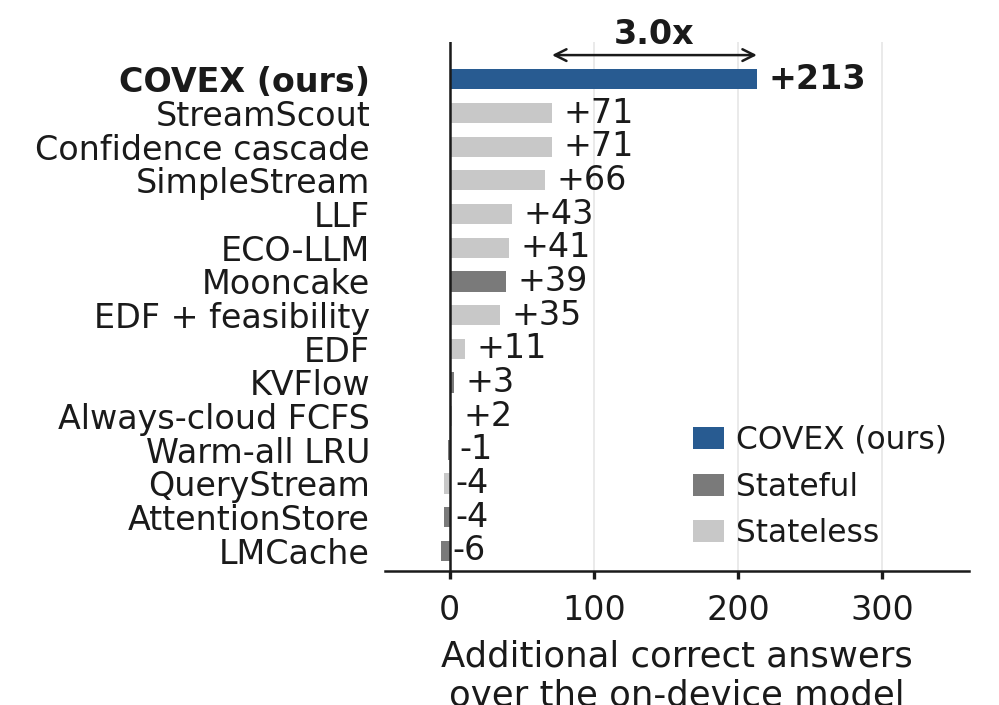
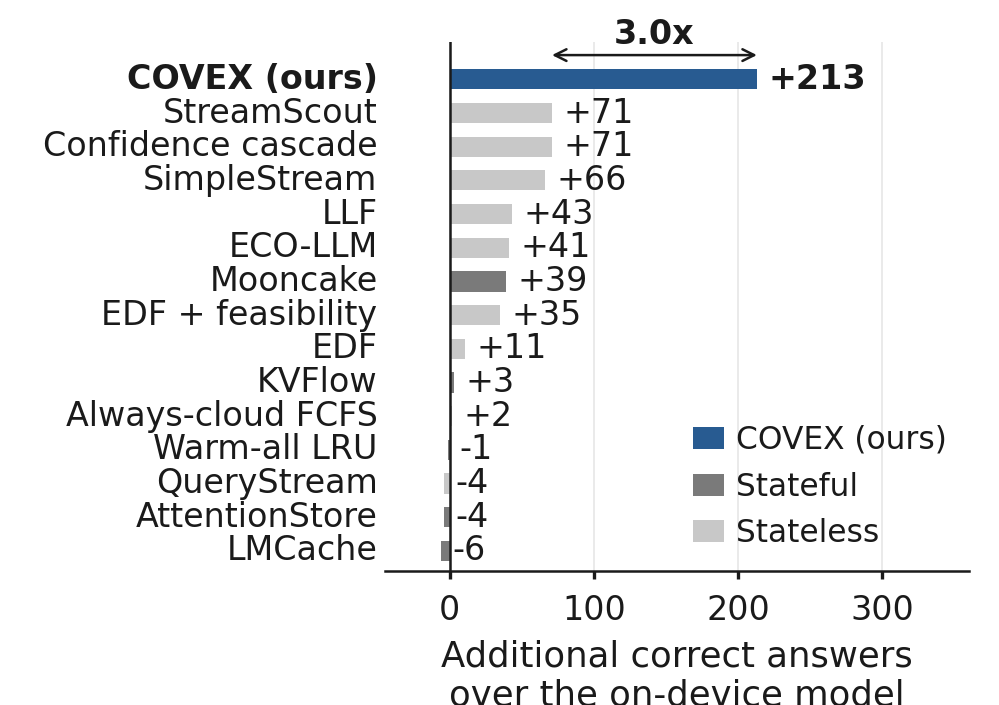
StudyFIG1: right-align y labels at a fixed edge

Changed region(s): [[0.031, 0.0936, 0.3724, 0.8113]]

diff --git a/experiments/analysis/figures/f01_intro_teaser.py b/experiments/analysis/figures/f01_intro_teaser.py
@@ -166,12 +166,11 @@ def _figure(rows, mode, out):
     if mode == "agg":
         labels = [_plain(s) for s in labels]
     ax.set_yticks(ys)
-    ax.set_yticklabels(labels, fontsize=8, color=INK)
-    for lbl in ax.get_yticklabels():
-        lbl.set_horizontalalignment("right")   # right-align every y label
-    for lbl, r in zip(ax.get_yticklabels(), rows):
-        if r["class"] == "covex":
-            lbl.set_fontweight("bold")
+    # y labels drawn as right-aligned texts at a fixed x (pgf ignores tick-label alignment)
+    ax.set_yticks([])
+    for y, lab, r in zip(ys, labels, rows):
+        ax.text(-0.012, y, lab, transform=ax.get_yaxis_transform(), ha="right", va="center",
+                fontsize=8, color=INK, fontweight="bold" if r["class"] == "covex" else "normal", clip_on=False)
     ax.axvline(0, color=INK, lw=0.6, zorder=2)
     ax.set_xlim(-45, 360)
     ax.set_ylim(-0.6, n - 0.4 + 0.5)
